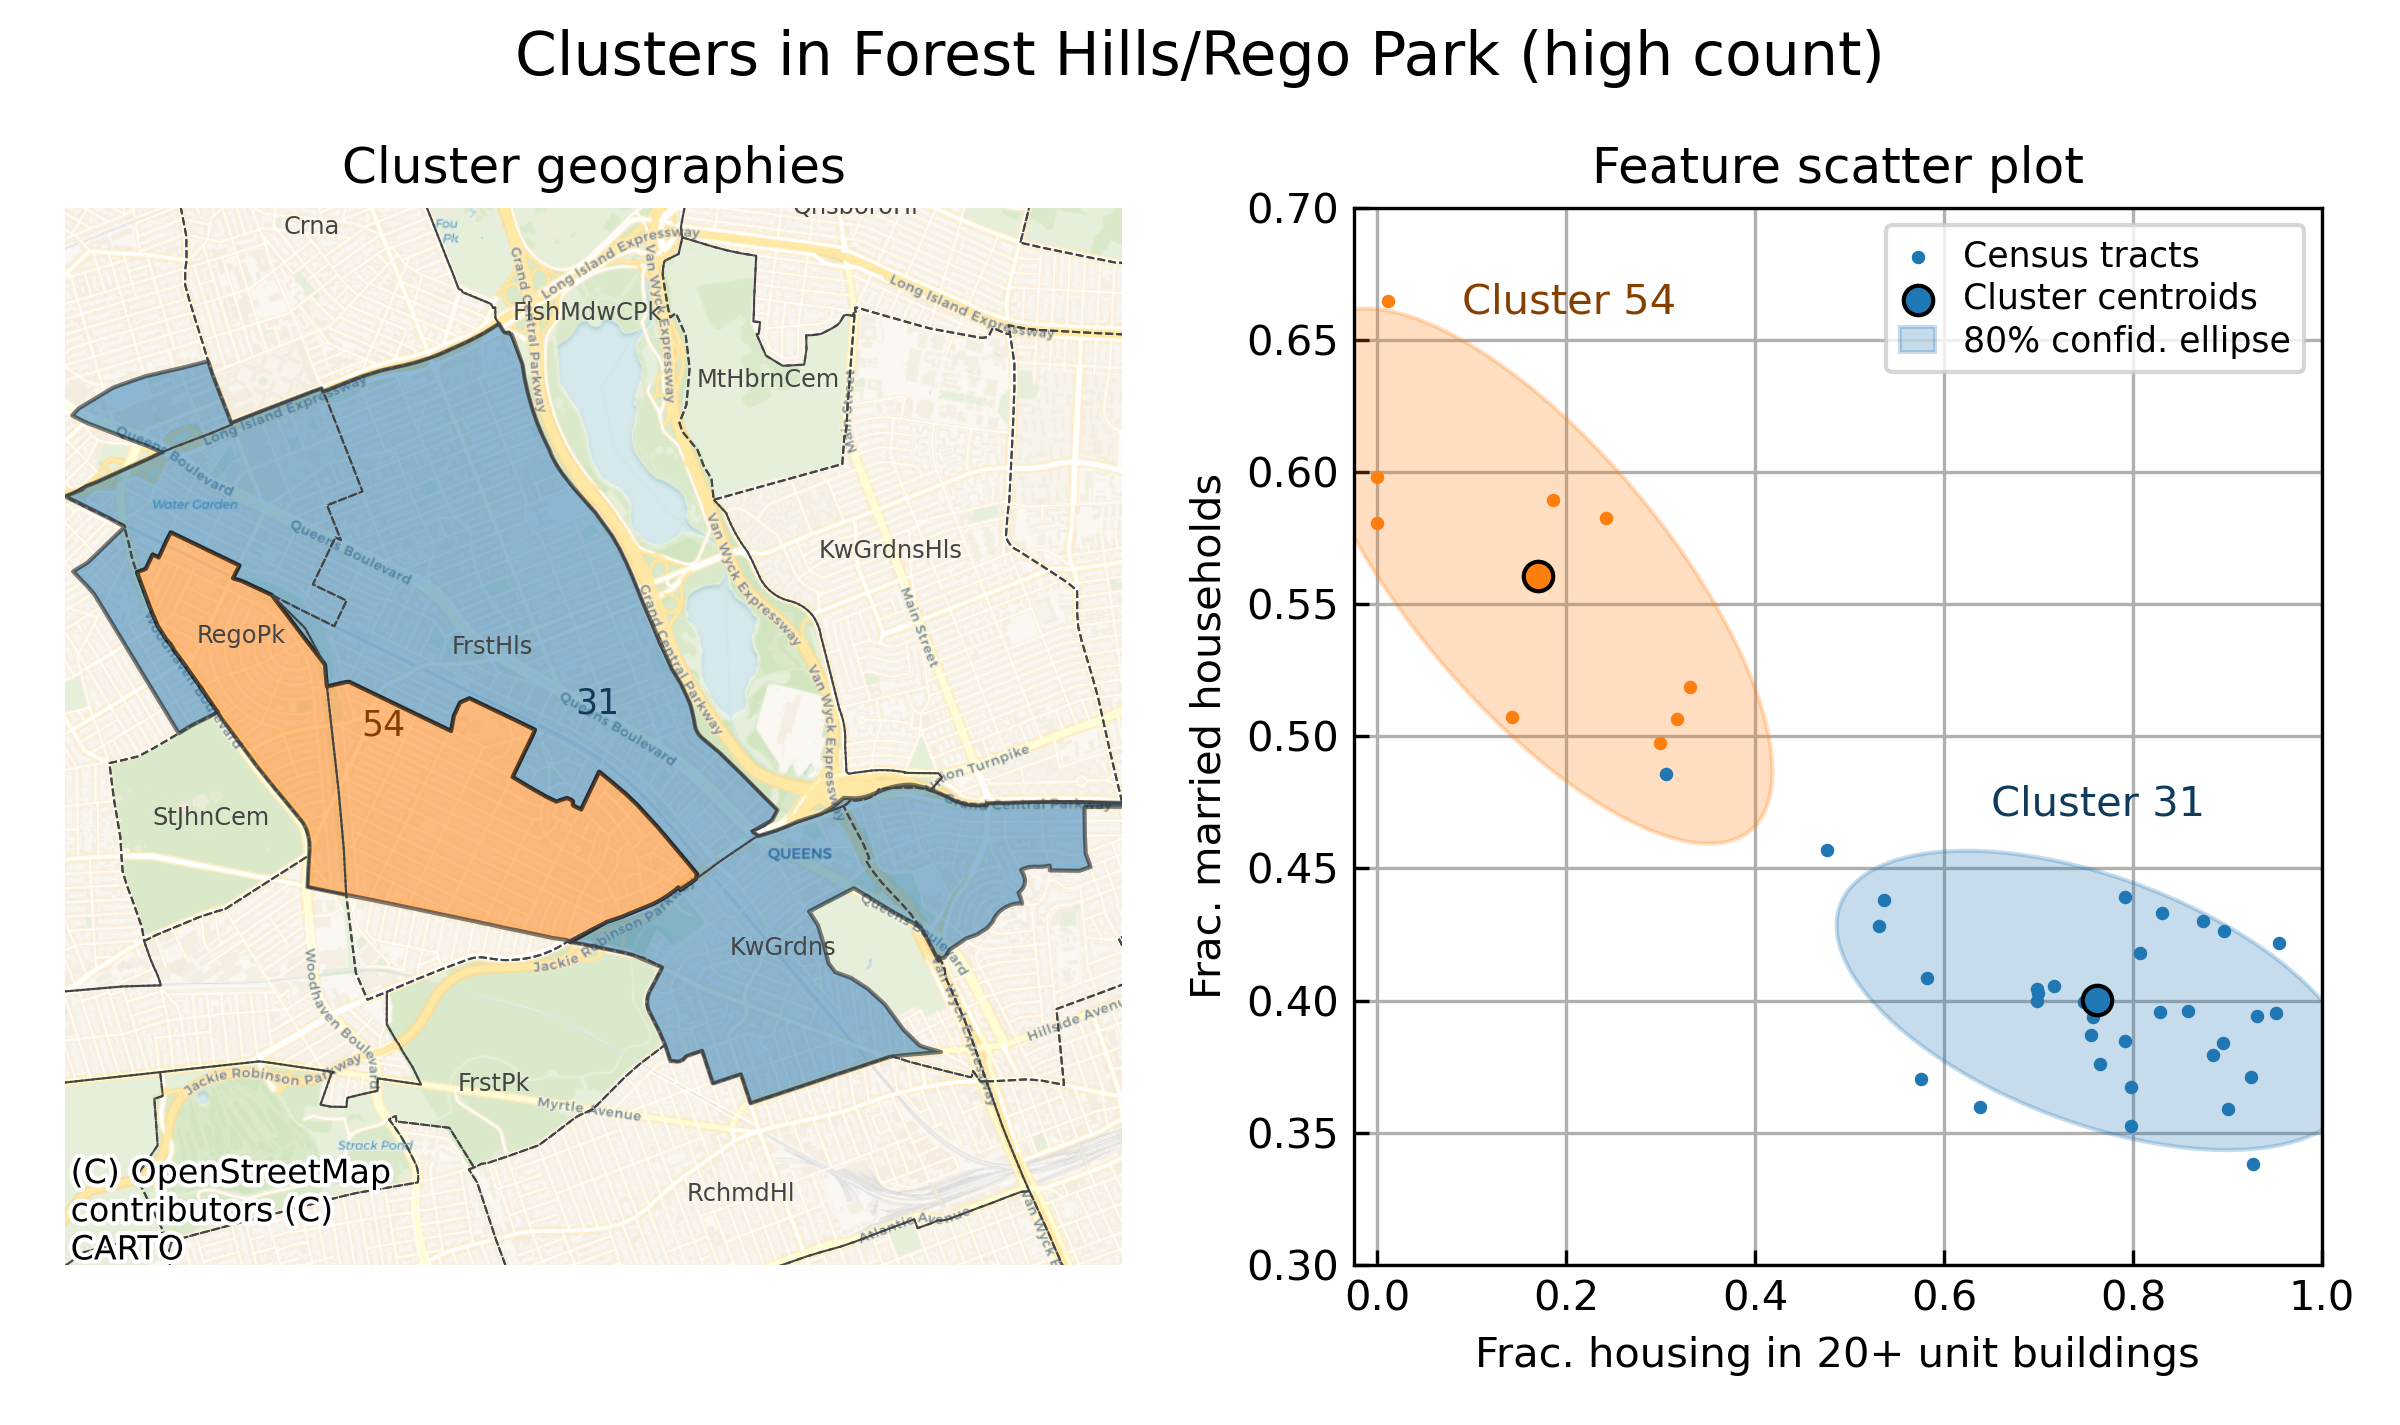
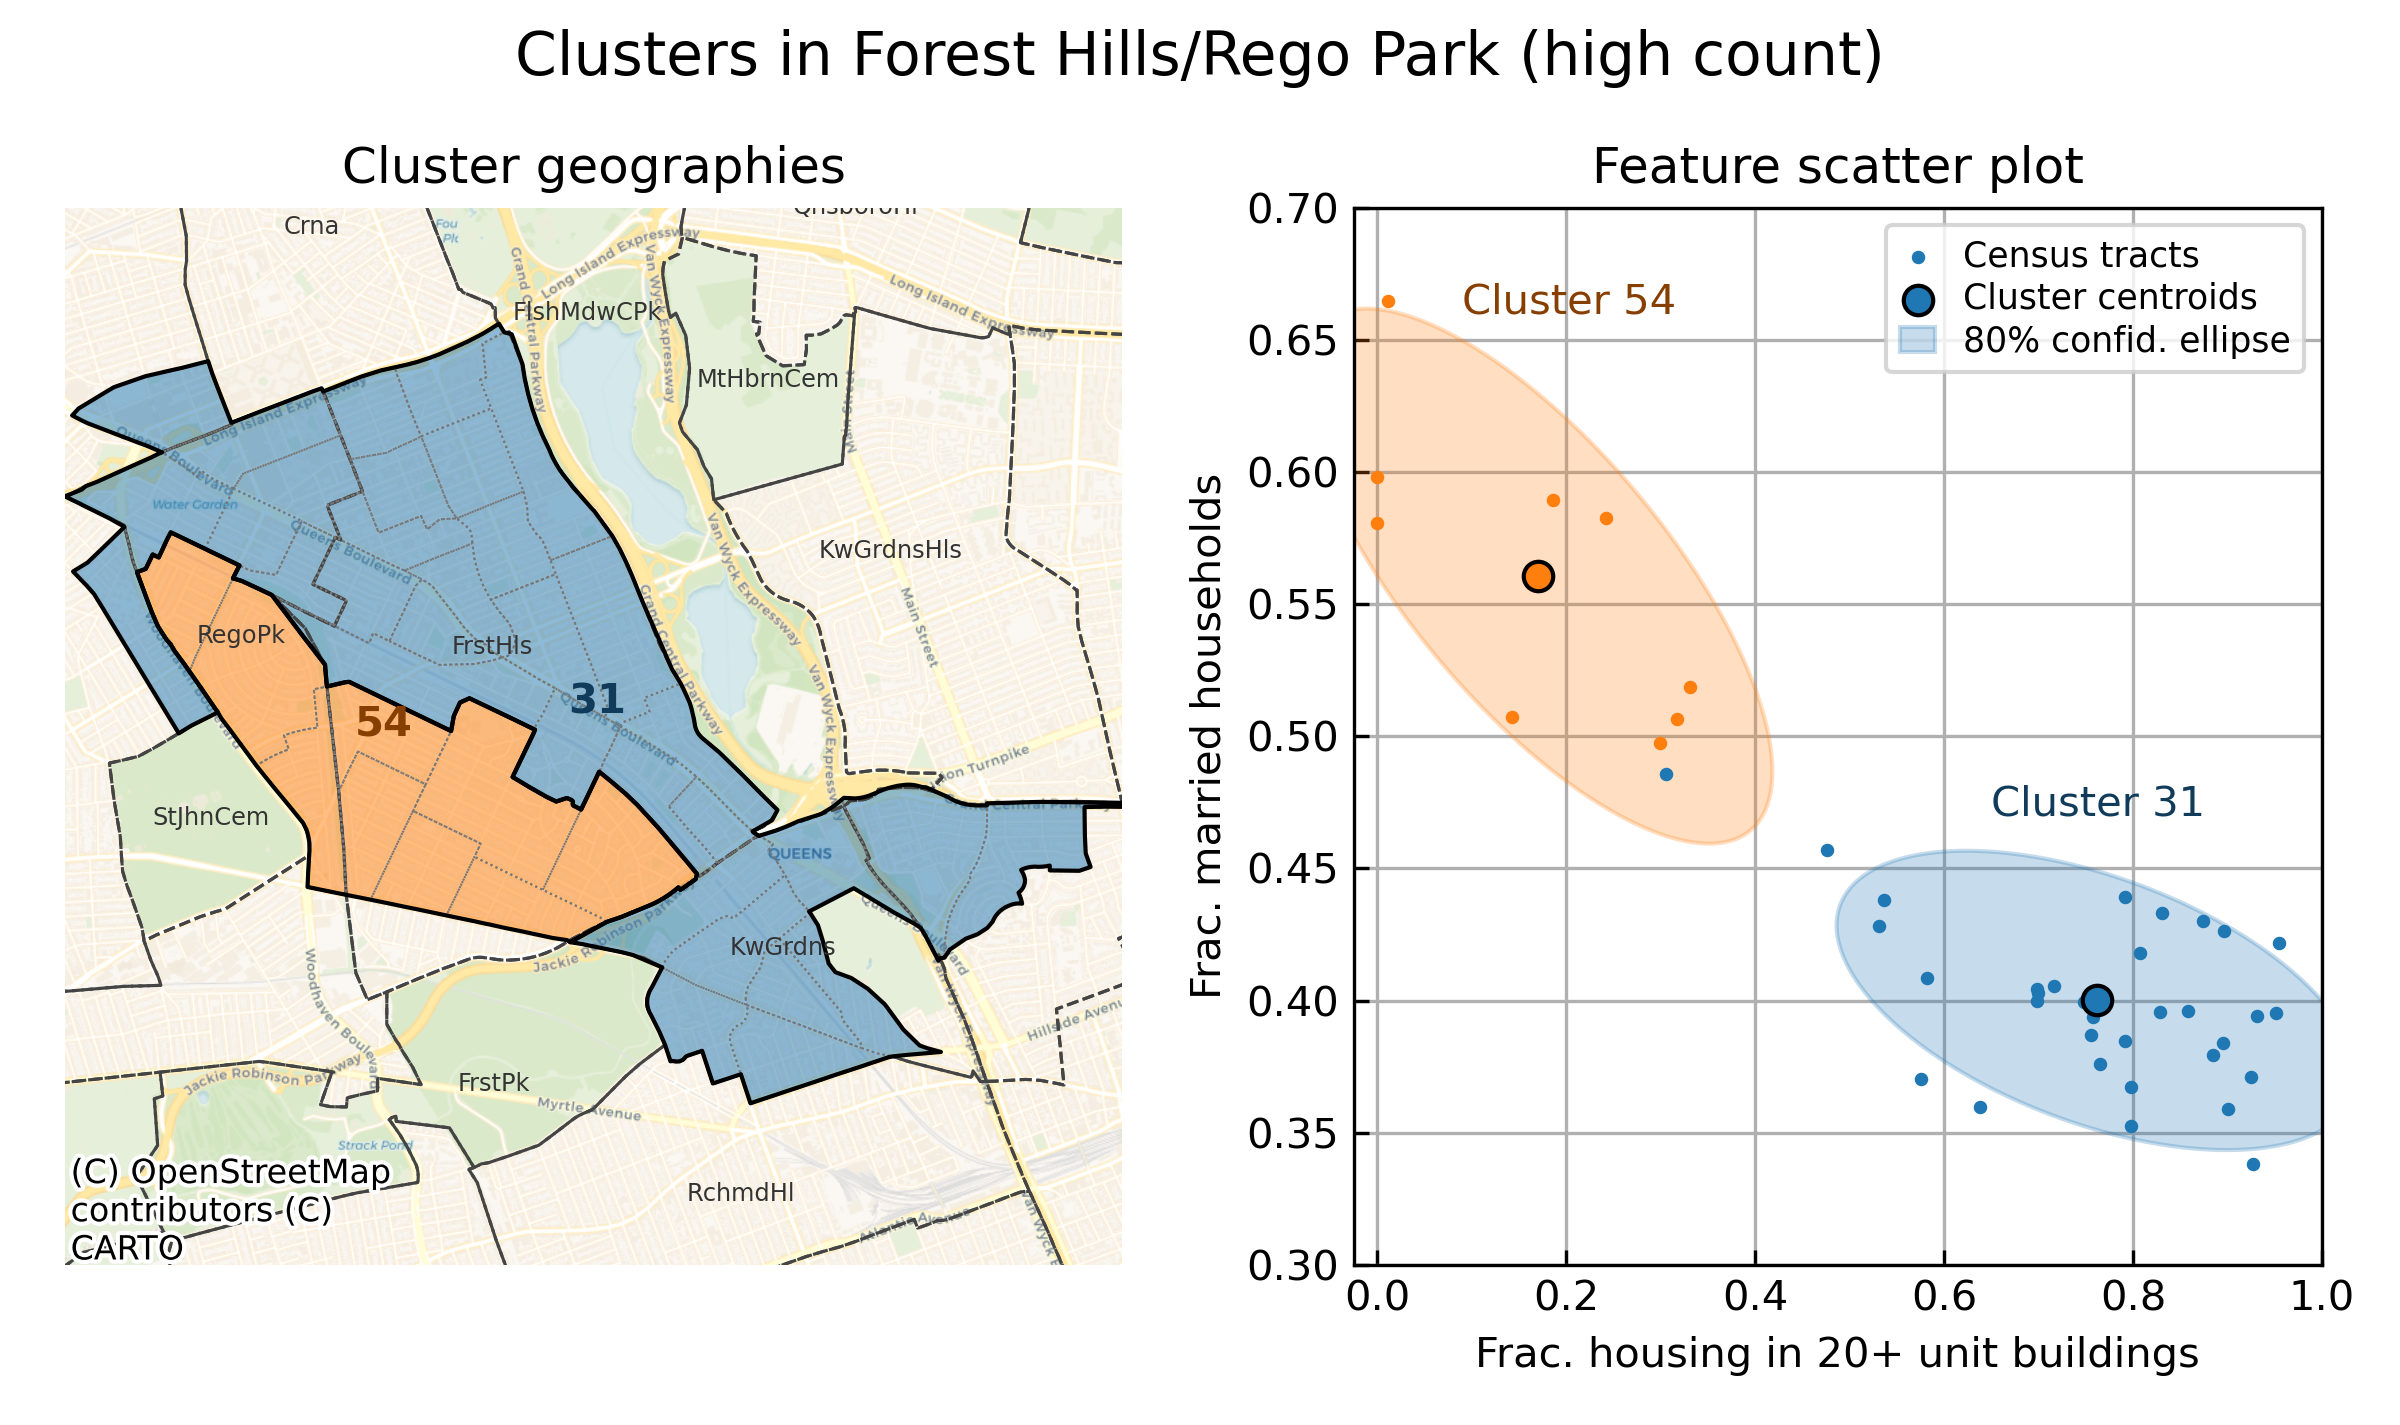
Finished project writeup and README

diff --git a/docs/index.md b/docs/index.md
@@ -5,9 +5,9 @@ title: NYC Community Clustering
 
 # Demographic Community Clustering of NYC
 
-New York has a rich tapestry of ever-changing neighbhorhoods. These regions act as a lens to help us better understand the city's communities, and because of this people often [have strong opinions](https://www.nytimes.com/interactive/2023/10/29/upshot/new-york-neighborhood-guide.html) on how they should be defined. But neighbhorhoods don't tell the full story, and real communities aren't always confined to these named boundaries. Understanding how people group together, independent of what we call an area, is a crucial part of learning the values and needs of a city at the local level.
+New York has a rich tapestry of ever-changing neighborhoods. These regions act as a lens to help us better understand the city's communities, and because of this people often [have strong opinions](https://www.nytimes.com/interactive/2023/10/29/upshot/new-york-neighborhood-guide.html) on how they should be defined. But neighborhoods don't tell the full story, and real communities aren't always confined to these named boundaries. Understanding how people group together, independent of what we call an area, is a crucial part of learning the values and needs of a city at the local level.
 
-In this project, I study these communities through an alternate lens: demographic and economic similarities. I harness machine learning methods to spatially cluster the city into geographically compact regions of similar people and households. Investigating how these clusters differ from the usual neighbhorhood boundaries reveals some interesting insights into the city's human geography. If that sounds interesting to you, read on!
+In this project, I study these communities through an alternate lens: demographic and economic similarities. I harness machine learning methods to spatially cluster the city into geographically compact regions of similar people and households. Investigating how these clusters differ from the usual neighborhood boundaries reveals some interesting insights into the city's human geography. If that sounds interesting to you, read on!
 
 ## Gathering data
 
@@ -48,7 +48,9 @@ Instead, I used an algorithm belonging to a family of methods called REDCAP<sup>
 - The "path" silhouette score<sup><a href="#ref-pathsilhouette">2</a></sup> (combination of both). 
     - I actually modified the metric to fix some perceived issues (documented in the project notebooks for anyone who's curious).
 
-Check out the results in the map below!
+## Results
+
+Check out the results of my clustering algorithm in this map!
 
 <!-- Ooh interactive folium map, fancy -->
 <figure class="responsive-figure map-figure">
@@ -60,7 +62,7 @@ Check out the results in the map below!
         allowfullscreen
     ></iframe>
   </div>
-  <figcaption>Interactive map of NYC cluster assignments. Neighbhorhoods are defined as <a href="https://www.nyc.gov/content/planning/pages/resources/datasets/neighborhood-tabulation">NYC's Neighborhood Tabulation Areas (NTAs)</a>, which are not official neighbhorhood boundaries but roughly describe their extent. I used three different numbers of clusters ("low", "medium", and "high" counts) to show different levels of structure. </figcaption>
+  <figcaption>Interactive map of NYC cluster assignments. neighborhoods are defined as <a href="https://www.nyc.gov/content/planning/pages/resources/datasets/neighborhood-tabulation">NYC's Neighborhood Tabulation Areas (NTAs)</a>, which are not official neighborhood boundaries but roughly describe their extent. I used three different numbers of clusters ("low", "medium", and "high" counts) to show different levels of structure. </figcaption>
 </figure>
 
 ## What can we learn from this?
@@ -68,52 +70,47 @@ Check out the results in the map below!
 There's a ton of fascinating structure here, and I dig into many details [in the project repository](https://github.com/dylan-j-young/nyc-community-clustering/). Here, I'll highlight two examples.
 
 ### Gentrification Boundaries in Williamsburg
-Williamsburg, with its [complicated recent demographic history](https://www.nytimes.com/interactive/2024/01/29/style/williamsburg-brooklyn-history-timeline.html), presents an interesting case study for clustering.
+Williamsburg has experienced [rapid demographic change](https://www.nytimes.com/interactive/2024/01/29/style/williamsburg-brooklyn-history-timeline.html) in recent years. In the present day, these dynamics are reflected by the existence of three distinct clusters in the neighborhood:
 
 <!-- Williamsburg figure -->
 <figure class="responsive-figure">
     <img 
         src="{{ '/figures/williamsburg.png' | relative_url }}"
-        alt="Comparing demographic clusters in Williamsburg. Left: map of three cluster geographies superimposed on neighbhorhood boundaries. Right: scatter plot of census tracts in two such clusters, comparing the white population fraction and the median household income."
+        alt="Clusters in Williamsburg and Greenpoint (medium count). This figure has two panels, the left a map titled Cluster Geographies, and the right a plot titled Feature Scatter Plot."
     />
     <figcaption>
-        Test.
+        Comparing demographic clusters in Williamsburg. Notice how cluster 29 (blue) is consistently whiter and wealthier than cluster 23 (orange).
     </figcaption>
 </figure>
 
-### The Demographics of Housing Zones in Forest Hills
+The green cluster represents the Hasidic Jewish community in South Williamsburg. It's strongly internally homogeneous, and the algorithm readily detects its distinctively high fraction of married households and hyperlocal commuters who walk to work. 
 
-Zoning laws can have a strong impact on where different demographics tend to cluster. 
+Less obvious at a glance is the boundary between the blue and orange clusters, which lies somewhere in eastern Williamsburg. Diving into feature space with the scatter plot reveals the reason: two classic gentrification markers, median household income and the fractional population of white residents, undergo a transition in this area that separate central Williamsburg and Greenpoint from eastern Williamsburg and Bushwick. The cluster boundaries give us a sense of roughly how far "peak" gentrification extends in the neighborhood.
 
--> Married households
+### Housing Zone Demographics in Forest Hills
+
+The housing stock of an area can have a strong impact on its demographics. Take the Rego Park and Forest Hills area as an example: here, my clustering algorithm detects a natural boundary splitting both of these neighborhoods down the middle:
 
 <!-- Forest Hills figure -->
 <figure class="responsive-figure">
     <img 
         src="{{ '/figures/foresthills.png' | relative_url }}"
-        alt="Comparing two demographic clusters in Forest Hills. Left: map of the cluster geographies superimposed on neighbhorhood boundaries. Right: scatter plot of census tracts in each cluster, comparing the fraction of 20+ unit buildings and the fraction of married households."
+        alt="Clusters in Forest Hills and Rego Park (high count). This figure has two panels, the left a map titled Cluster Geographies, and the right a plot titled Feature Scatter Plot."
     />
     <figcaption>
-        Test.
+        Comparing two demographic clusters in Forest Hills and Rego Park. In this area, the fraction of married households shows a strong negative correlation with the fraction of 20+ unit apartment buildings, and this defines the boundary between clusters 54 (orange) and 31 (blue).
     </figcaption>
 </figure>
 
-(The lower density areas in the northeast share Census tracts with higher density blocks and are therefore harder to detect at this level of granularity).
+This boundary, roughly following the LIRR line south of Queens Boulevard, separates Census tracts with high density housing to the north (blue cluster) from lower density housing to the south (orange cluster), consistent with the [different housing zones](https://zola.planninglabs.nyc/#13/40.71721/-73.82945) in the region. Feature space shows that married households consistently prefer living in the orange cluster, indicating a community with a more suburban feel compared with the transit corridor in the north. 
 
-## Conclusions (100 word goal)
+The takeaway: these two communities are defined not by neighbhorhood boundaries but rather by transit geography and housing policy, and my clustering algorithm can detect them!
 
-*Highlight the takeaways from your analysis:*
-- *What did the clustering reveal about NYC communities?* 
-- *Any implications or next steps?*
+## Conclusion
 
-Potential ways to use this data:
+This project taught me that, given the right features and clustering methodology, we can unveil real demographic structure that sheds light on the city's geography. Looking forward, these clusters can act as natural filters for analyzing other data (like the American Community Survey) to teach us a ton of information about these local demographic communities---information like educational attainment, type of employment, insurance coverage, and more. Someone could also look for needs or inequities at the community level. For example, are some demographic communities food or transit deserts, even if their neighbhorhoods are well-served in aggregate? Are there regions with many elderly but poor access to nearby healthcare?
 
-- Using these clusters as a geographic filter for city-wide data can reveal community-level needs, issues, and inequities.
-    - Food deserts, transit deserts, demand for businesses, demand for city services at a community level
-(why is community level so important? Need to clarify my thoughts on this.)
-
-
-If you want to dive into the data yourself, check out my GitHub project [here](https://github.com/dylan-j-young/nyc-community-clustering/)!
+For now, though, this ends my exploration. If you want to dive into the data yourself, check out my GitHub project [here](https://github.com/dylan-j-young/nyc-community-clustering/)!
 
 ---
 

diff --git a/README.md b/README.md
@@ -1,31 +1,32 @@
-# Project Title: Mapping NYC Communities
+# Mapping NYC Communities with Demographic Data
 
-Clustering NYC into communities based on census demographics, housing data, and income.
-
----
-
-## 📊 Project Overview
-
-### Motivation
-
-- **Approach:** *A quick summary of your methodology (e.g., "Exploratory data analysis + regression modeling").*  
-
-- **Result:** *Tease your key findings (e.g., "Achieved R² of 0.82 on test set").* 
-
----
-
-## 📂 Repository Structure
-
-My repository structure is inspired by `cookiecutter-data-science` [project link](https://cookiecutter-data-science.drivendata.org/).
-
-
-...
+Welcome! This project studies demographic, housing, and economic data from the 2020 Decennial US Census and the 2023 5-Year American Community Survey (ACS) and uses spatial clustering to identify communities of similar people and households. 
 
 DISCLAIMER: This product uses the Census Bureau Data API but is not endorsed or certified by the Census Bureau.
 
-To pull data from the Census API, it's recommended to request an API key (limited queries are available without one, but frequent queries require a key). You can make this request at [https://www.census.gov/data/developers.html](https://www.census.gov/data/developers.html).
+## Project structure
 
-Once you get your key, create a file called `.env` in the project root with the following line:
-```
-CENSUS_API_KEY=your_key_here
-```
+The project has the following simplified root-level structure, roughly inspired by [Cookiecutter Data Science](https://cookiecutter-data-science.drivendata.org/):
+
+- `config/` (variable names for Census data tables)
+- `data/` (*CREATED UPON RUNNING NOTEBOOK 00. Holds Census data and geometries)
+- `docs/` (data for the project summary site; not necessary for local repo)
+- `models/` (*CREATED UPON RUNNING NOTEBOOK 00. Holds cluster labels for various models and hyperparameters)
+- `notebooks/` (main notebooks for the project. Running these in order will walk you through the entire project)
+- `src/` (Python scripts used in the notebooks, treated as a module to import)
+- `.env` (*MUST CREATE BEFORE RUNNING. Stores the user's Census API key)
+- `requirements.txt` (List of Python modules required to run the project)
+
+## Setup
+
+1. Clone the repository using your preferred method.
+2. Install any dependencies in `requirements.txt`. Either of the following will work:
+    - Run the command `pip install -r requirements.txt`.
+    - Install each module using your preferred package manager, such as `conda`. Some packages may only be available on `conda-forge`. 
+3. To pull data from the Census API, it's recommended to request an API key (limited queries are available without one, but frequent queries require a key). You can make this request at [https://www.census.gov/data/developers.html](https://www.census.gov/data/developers.html).
+4. Once you get your key, create a file called `.env` in the project root with the following line:
+    ```
+    CENSUS_API_KEY=your_key_here
+    ```
+5. Run all cells in the notebook `notebooks/00_preprocessing.ipynb` to complete the directory structure and download all relevant data and geometries.
+6. If you want to replicate my work, first run through notebook `notebooks/01_feature-engineering.ipynb` to generate the dataset I used for clustering. Then run through notebook `notebooks/02_clustering.ipynb` to look at different clustering algorithms and evaluation metrics.
